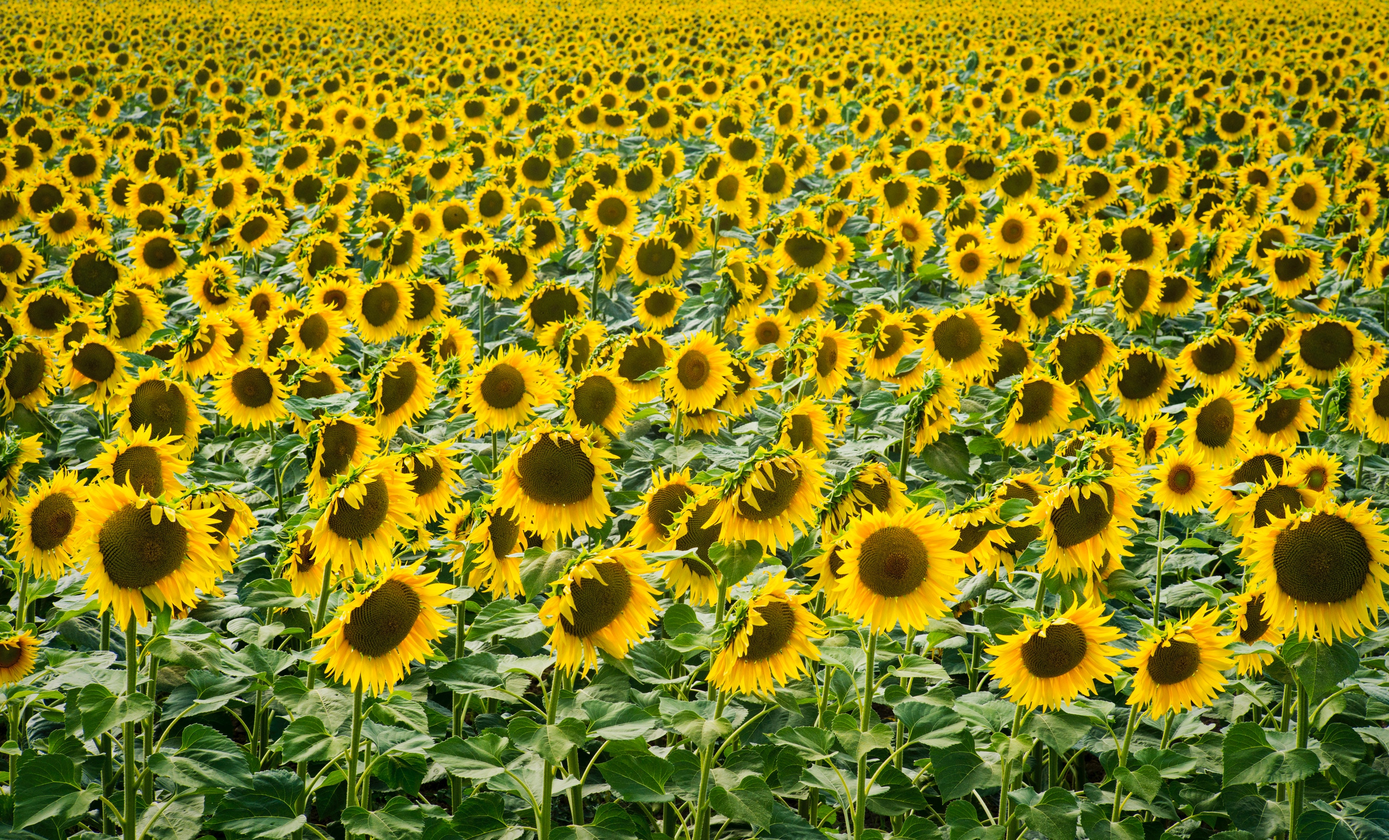
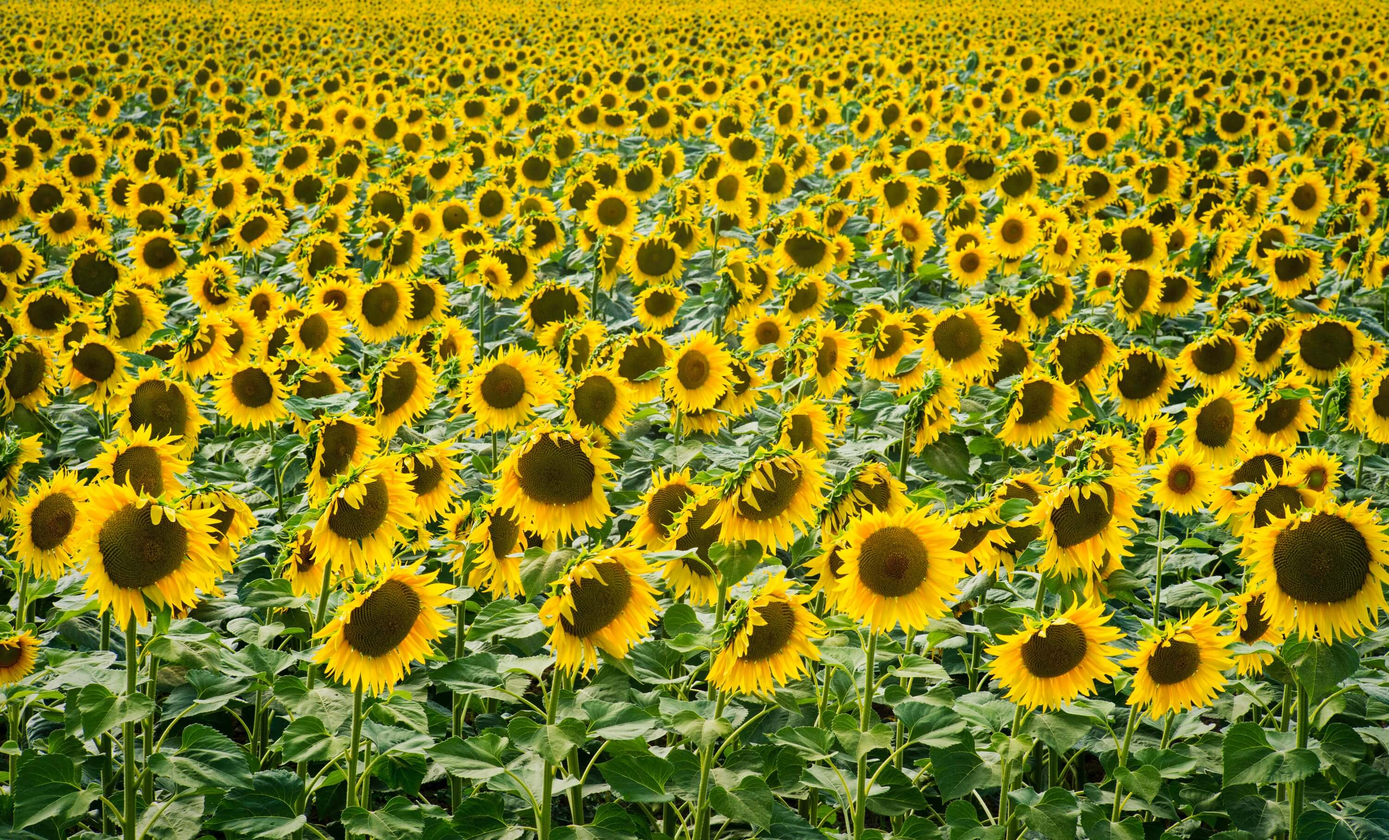
reduced image sizes

diff --git a/build/index.html b/build/index.html
@@ -1,1 +1,1 @@
-<!doctype html><html lang="en"><head><meta charset="utf-8"><meta name="viewport" content="width=device-width,initial-scale=1,shrink-to-fit=no"><meta name="theme-color" content="#000000"><link rel="manifest" href="/manifest.json"><link rel="shortcut icon" href="/Sigma.png"><link rel="stylesheet" href="https://use.fontawesome.com/releases/v5.2.0/css/all.css"><link href="https://fonts.googleapis.com/css?family=Lato|Muli|Open+Sans" rel="stylesheet"><title>Tony Wible</title><link href="/static/css/main.f1f37fae.chunk.css" rel="stylesheet"></head><body><noscript>You need to enable JavaScript to run this app.</noscript><div id="root"></div><script>!function(c){function e(e){for(var t,r,n=e[0],o=e[1],a=e[2],u=0,i=[];u<n.length;u++)r=n[u],d[r]&&i.push(d[r][0]),d[r]=0;for(t in o)Object.prototype.hasOwnProperty.call(o,t)&&(c[t]=o[t]);for(h&&h(e);i.length;)i.shift()();return f.push.apply(f,a||[]),l()}function l(){for(var e,t=0;t<f.length;t++){for(var r=f[t],n=!0,o=1;o<r.length;o++){var a=r[o];0!==d[a]&&(n=!1)}n&&(f.splice(t--,1),e=p(p.s=r[0]))}return e}var r={},s={3:0},d={3:0},f=[];function p(e){if(r[e])return r[e].exports;var t=r[e]={i:e,l:!1,exports:{}};return c[e].call(t.exports,t,t.exports,p),t.l=!0,t.exports}p.e=function(f){var e=[];s[f]?e.push(s[f]):0!==s[f]&&{0:1,5:1}[f]&&e.push(s[f]=new Promise(function(e,n){for(var t="static/css/"+({}[f]||f)+"."+{0:"206337dc",1:"31d6cfe0",5:"80119a1b"}[f]+".chunk.css",o=p.p+t,r=document.getElementsByTagName("link"),a=0;a<r.length;a++){var u=(c=r[a]).getAttribute("data-href")||c.getAttribute("href");if("stylesheet"===c.rel&&(u===t||u===o))return e()}var i=document.getElementsByTagName("style");for(a=0;a<i.length;a++){var c;if((u=(c=i[a]).getAttribute("data-href"))===t||u===o)return e()}var l=document.createElement("link");l.rel="stylesheet",l.type="text/css",l.onload=e,l.onerror=function(e){var t=e&&e.target&&e.target.src||o,r=new Error("Loading CSS chunk "+f+" failed.\n("+t+")");r.request=t,delete s[f],l.parentNode.removeChild(l),n(r)},l.href=o,document.getElementsByTagName("head")[0].appendChild(l)}).then(function(){s[f]=0}));var r=d[f];if(0!==r)if(r)e.push(r[2]);else{var t=new Promise(function(e,t){r=d[f]=[e,t]});e.push(r[2]=t);var n,a=document.createElement("script");a.charset="utf-8",a.timeout=120,p.nc&&a.setAttribute("nonce",p.nc),a.src=p.p+"static/js/"+({}[f]||f)+"."+{0:"7f4135a4",1:"49364dba",5:"a0a9104f"}[f]+".chunk.js",n=function(e){a.onerror=a.onload=null,clearTimeout(u);var t=d[f];if(0!==t){if(t){var r=e&&("load"===e.type?"missing":e.type),n=e&&e.target&&e.target.src,o=new Error("Loading chunk "+f+" failed.\n("+r+": "+n+")");o.type=r,o.request=n,t[1](o)}d[f]=void 0}};var u=setTimeout(function(){n({type:"timeout",target:a})},12e4);a.onerror=a.onload=n,document.head.appendChild(a)}return Promise.all(e)},p.m=c,p.c=r,p.d=function(e,t,r){p.o(e,t)||Object.defineProperty(e,t,{enumerable:!0,get:r})},p.r=function(e){"undefined"!=typeof Symbol&&Symbol.toStringTag&&Object.defineProperty(e,Symbol.toStringTag,{value:"Module"}),Object.defineProperty(e,"__esModule",{value:!0})},p.t=function(t,e){if(1&e&&(t=p(t)),8&e)return t;if(4&e&&"object"==typeof t&&t&&t.__esModule)return t;var r=Object.create(null);if(p.r(r),Object.defineProperty(r,"default",{enumerable:!0,value:t}),2&e&&"string"!=typeof t)for(var n in t)p.d(r,n,function(e){return t[e]}.bind(null,n));return r},p.n=function(e){var t=e&&e.__esModule?function(){return e.default}:function(){return e};return p.d(t,"a",t),t},p.o=function(e,t){return Object.prototype.hasOwnProperty.call(e,t)},p.p="/",p.oe=function(e){throw console.error(e),e};var t=window.webpackJsonp=window.webpackJsonp||[],n=t.push.bind(t);t.push=e,t=t.slice();for(var o=0;o<t.length;o++)e(t[o]);var h=n;l()}([])</script><script src="/static/js/4.99fb76e5.chunk.js"></script><script src="/static/js/main.30dc4e71.chunk.js"></script></body></html>
+<!doctype html><html lang="en"><head><meta charset="utf-8"><meta name="viewport" content="width=device-width,initial-scale=1,shrink-to-fit=no"><meta name="theme-color" content="#000000"><link rel="manifest" href="/manifest.json"><link rel="shortcut icon" href="/Sigma.png"><link rel="stylesheet" href="https://use.fontawesome.com/releases/v5.2.0/css/all.css"><link href="https://fonts.googleapis.com/css?family=Lato|Muli|Open+Sans" rel="stylesheet"><title>Tony Wible</title><link href="/static/css/main.f1f37fae.chunk.css" rel="stylesheet"></head><body><noscript>You need to enable JavaScript to run this app.</noscript><div id="root"></div><script>!function(c){function e(e){for(var t,r,n=e[0],o=e[1],a=e[2],u=0,i=[];u<n.length;u++)r=n[u],d[r]&&i.push(d[r][0]),d[r]=0;for(t in o)Object.prototype.hasOwnProperty.call(o,t)&&(c[t]=o[t]);for(h&&h(e);i.length;)i.shift()();return f.push.apply(f,a||[]),l()}function l(){for(var e,t=0;t<f.length;t++){for(var r=f[t],n=!0,o=1;o<r.length;o++){var a=r[o];0!==d[a]&&(n=!1)}n&&(f.splice(t--,1),e=p(p.s=r[0]))}return e}var r={},s={2:0},d={2:0},f=[];function p(e){if(r[e])return r[e].exports;var t=r[e]={i:e,l:!1,exports:{}};return c[e].call(t.exports,t,t.exports,p),t.l=!0,t.exports}p.e=function(f){var e=[];s[f]?e.push(s[f]):0!==s[f]&&{4:1,5:1}[f]&&e.push(s[f]=new Promise(function(e,n){for(var t="static/css/"+({}[f]||f)+"."+{0:"31d6cfe0",4:"c6c04d80",5:"be28b87c"}[f]+".chunk.css",o=p.p+t,r=document.getElementsByTagName("link"),a=0;a<r.length;a++){var u=(c=r[a]).getAttribute("data-href")||c.getAttribute("href");if("stylesheet"===c.rel&&(u===t||u===o))return e()}var i=document.getElementsByTagName("style");for(a=0;a<i.length;a++){var c;if((u=(c=i[a]).getAttribute("data-href"))===t||u===o)return e()}var l=document.createElement("link");l.rel="stylesheet",l.type="text/css",l.onload=e,l.onerror=function(e){var t=e&&e.target&&e.target.src||o,r=new Error("Loading CSS chunk "+f+" failed.\n("+t+")");r.request=t,delete s[f],l.parentNode.removeChild(l),n(r)},l.href=o,document.getElementsByTagName("head")[0].appendChild(l)}).then(function(){s[f]=0}));var r=d[f];if(0!==r)if(r)e.push(r[2]);else{var t=new Promise(function(e,t){r=d[f]=[e,t]});e.push(r[2]=t);var n,a=document.createElement("script");a.charset="utf-8",a.timeout=120,p.nc&&a.setAttribute("nonce",p.nc),a.src=p.p+"static/js/"+({}[f]||f)+"."+{0:"f423dceb",4:"70a9f62f",5:"c09d01d3"}[f]+".chunk.js",n=function(e){a.onerror=a.onload=null,clearTimeout(u);var t=d[f];if(0!==t){if(t){var r=e&&("load"===e.type?"missing":e.type),n=e&&e.target&&e.target.src,o=new Error("Loading chunk "+f+" failed.\n("+r+": "+n+")");o.type=r,o.request=n,t[1](o)}d[f]=void 0}};var u=setTimeout(function(){n({type:"timeout",target:a})},12e4);a.onerror=a.onload=n,document.head.appendChild(a)}return Promise.all(e)},p.m=c,p.c=r,p.d=function(e,t,r){p.o(e,t)||Object.defineProperty(e,t,{enumerable:!0,get:r})},p.r=function(e){"undefined"!=typeof Symbol&&Symbol.toStringTag&&Object.defineProperty(e,Symbol.toStringTag,{value:"Module"}),Object.defineProperty(e,"__esModule",{value:!0})},p.t=function(t,e){if(1&e&&(t=p(t)),8&e)return t;if(4&e&&"object"==typeof t&&t&&t.__esModule)return t;var r=Object.create(null);if(p.r(r),Object.defineProperty(r,"default",{enumerable:!0,value:t}),2&e&&"string"!=typeof t)for(var n in t)p.d(r,n,function(e){return t[e]}.bind(null,n));return r},p.n=function(e){var t=e&&e.__esModule?function(){return e.default}:function(){return e};return p.d(t,"a",t),t},p.o=function(e,t){return Object.prototype.hasOwnProperty.call(e,t)},p.p="/",p.oe=function(e){throw console.error(e),e};var t=window.webpackJsonp=window.webpackJsonp||[],n=t.push.bind(t);t.push=e,t=t.slice();for(var o=0;o<t.length;o++)e(t[o]);var h=n;l()}([])</script><script src="/static/js/3.57f03730.chunk.js"></script><script src="/static/js/main.37fee0ef.chunk.js"></script></body></html>

diff --git a/build/service-worker.js b/build/service-worker.js
@@ -14,7 +14,7 @@
 importScripts("https://storage.googleapis.com/workbox-cdn/releases/3.6.3/workbox-sw.js");
 
 importScripts(
-  "/precache-manifest.298e5ba9f2a87308ce687e9fc4f51ff3.js"
+  "/precache-manifest.f69bba541e17ff6d1409b8d3d4cb2316.js"
 );
 
 workbox.clientsClaim();
